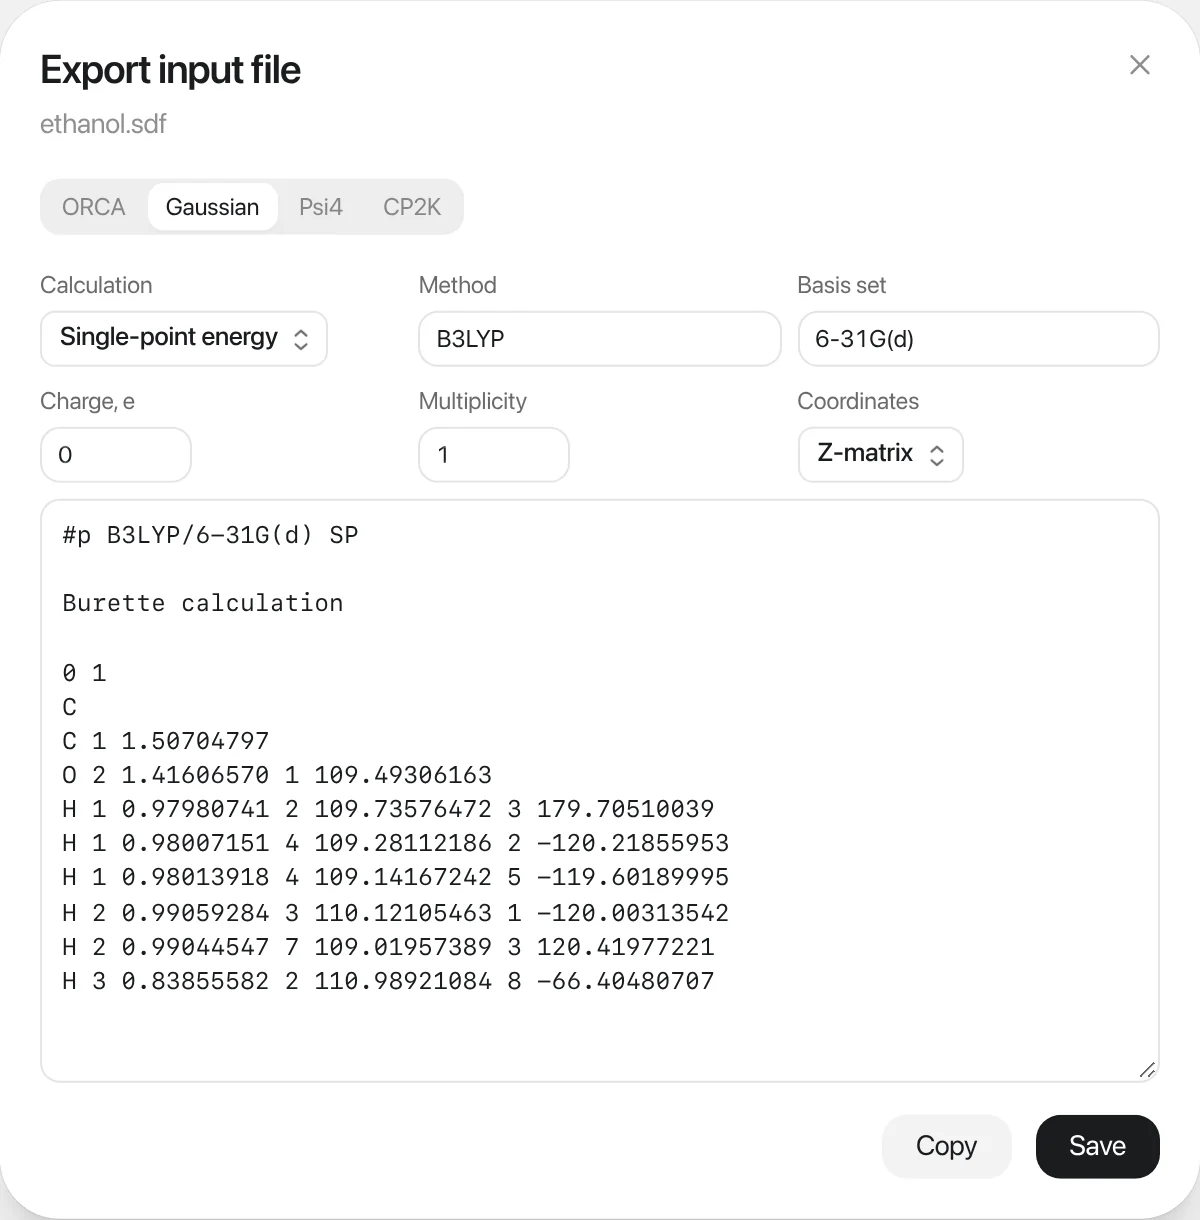
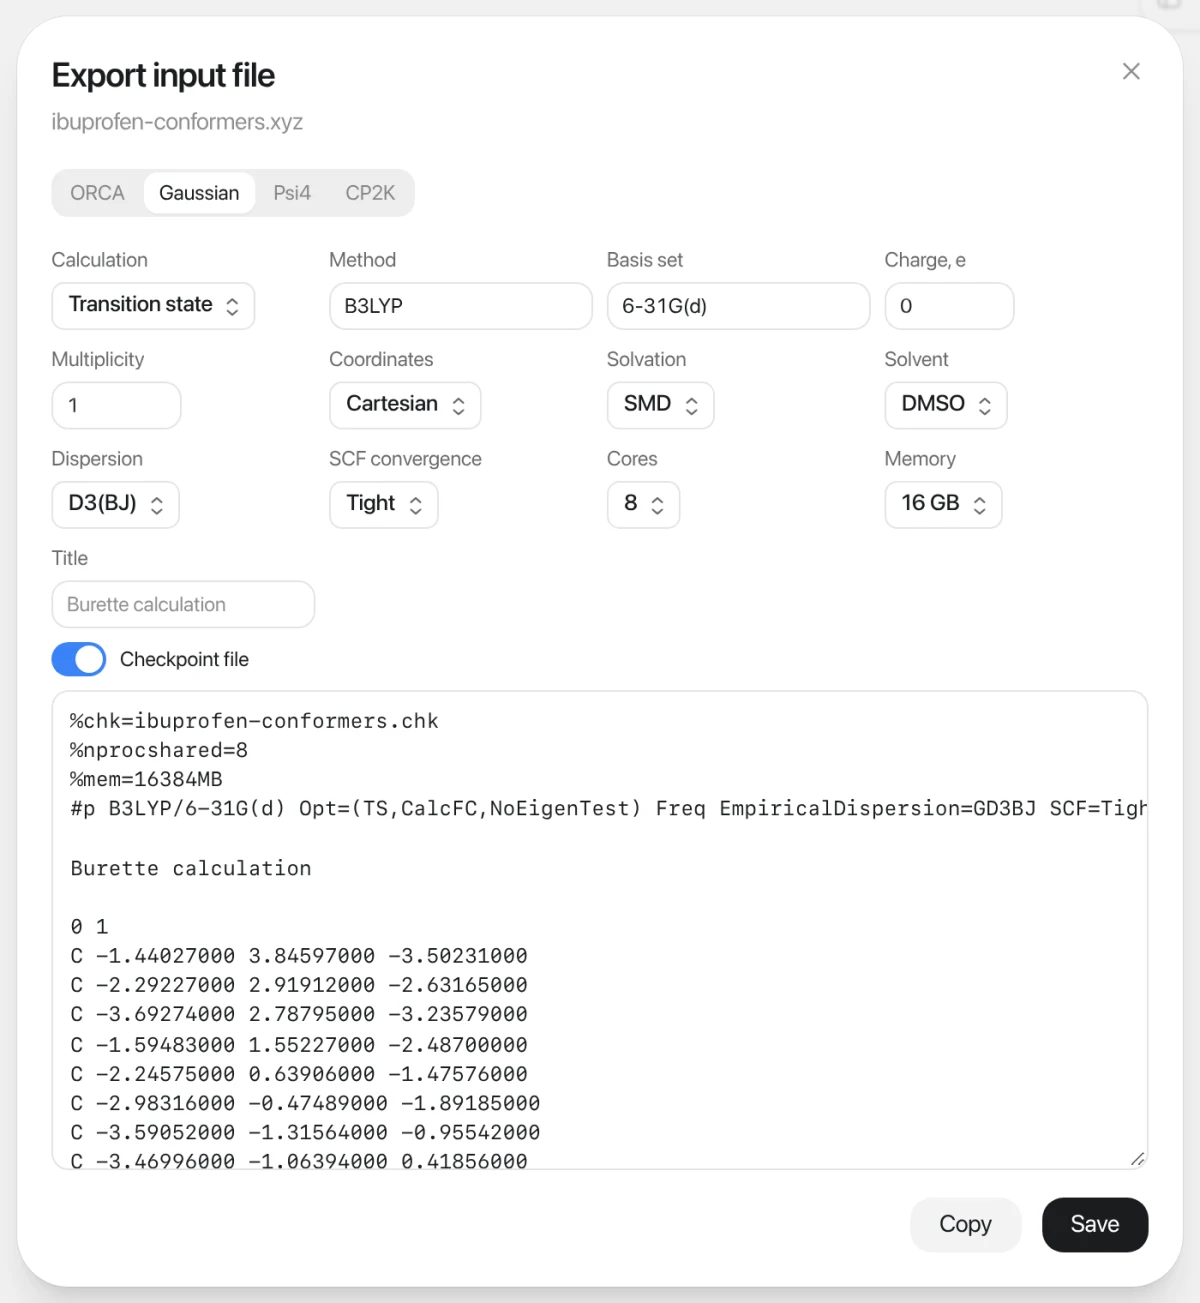
Document the new input file settings, unsaved-edit marks and the clearer pair and SAR views

diff --git a/docs/linkedin-posts.md b/docs/linkedin-posts.md
@@ -87,7 +87,7 @@ In the Mac app, the same menu also lists GFN2-xTB, GFN1-xTB and GFN-FF through y
 
 You can now export a ready input file for ORCA, Gaussian, Psi4 or CP2K from an SDF, MOL, PDB, CIF, POSCAR or XYZ file.
 
-Export input file… is in the command palette, the Edit panel's More actions, and the Geometry and Z-matrix panels. Choose the program, the calculation (single point, optimization or frequencies), method, basis, charge and multiplicity, and Cartesian or Z-matrix coordinates for ORCA, Gaussian and Psi4.
+Export input file… is in the command palette, the Edit panel's More actions, and the Geometry and Z-matrix panels. Choose the program, the calculation (single point, optimization, frequencies, optimization with frequencies, or a transition-state search), method and basis with suggestions for each program, charge and multiplicity, and Cartesian or Z-matrix coordinates for ORCA, Gaussian and Psi4. Add CPCM or SMD solvent, D3(BJ) or D4 dispersion, tighter SCF convergence, cores and memory, a title, and a Gaussian checkpoint file; each program gets them in its own syntax.
 
 Atoms keep their order, so constraint numbers match the structure. Frozen atoms and held distances from the Edit panel go into optimization inputs. Copy the text or save the file.
 
